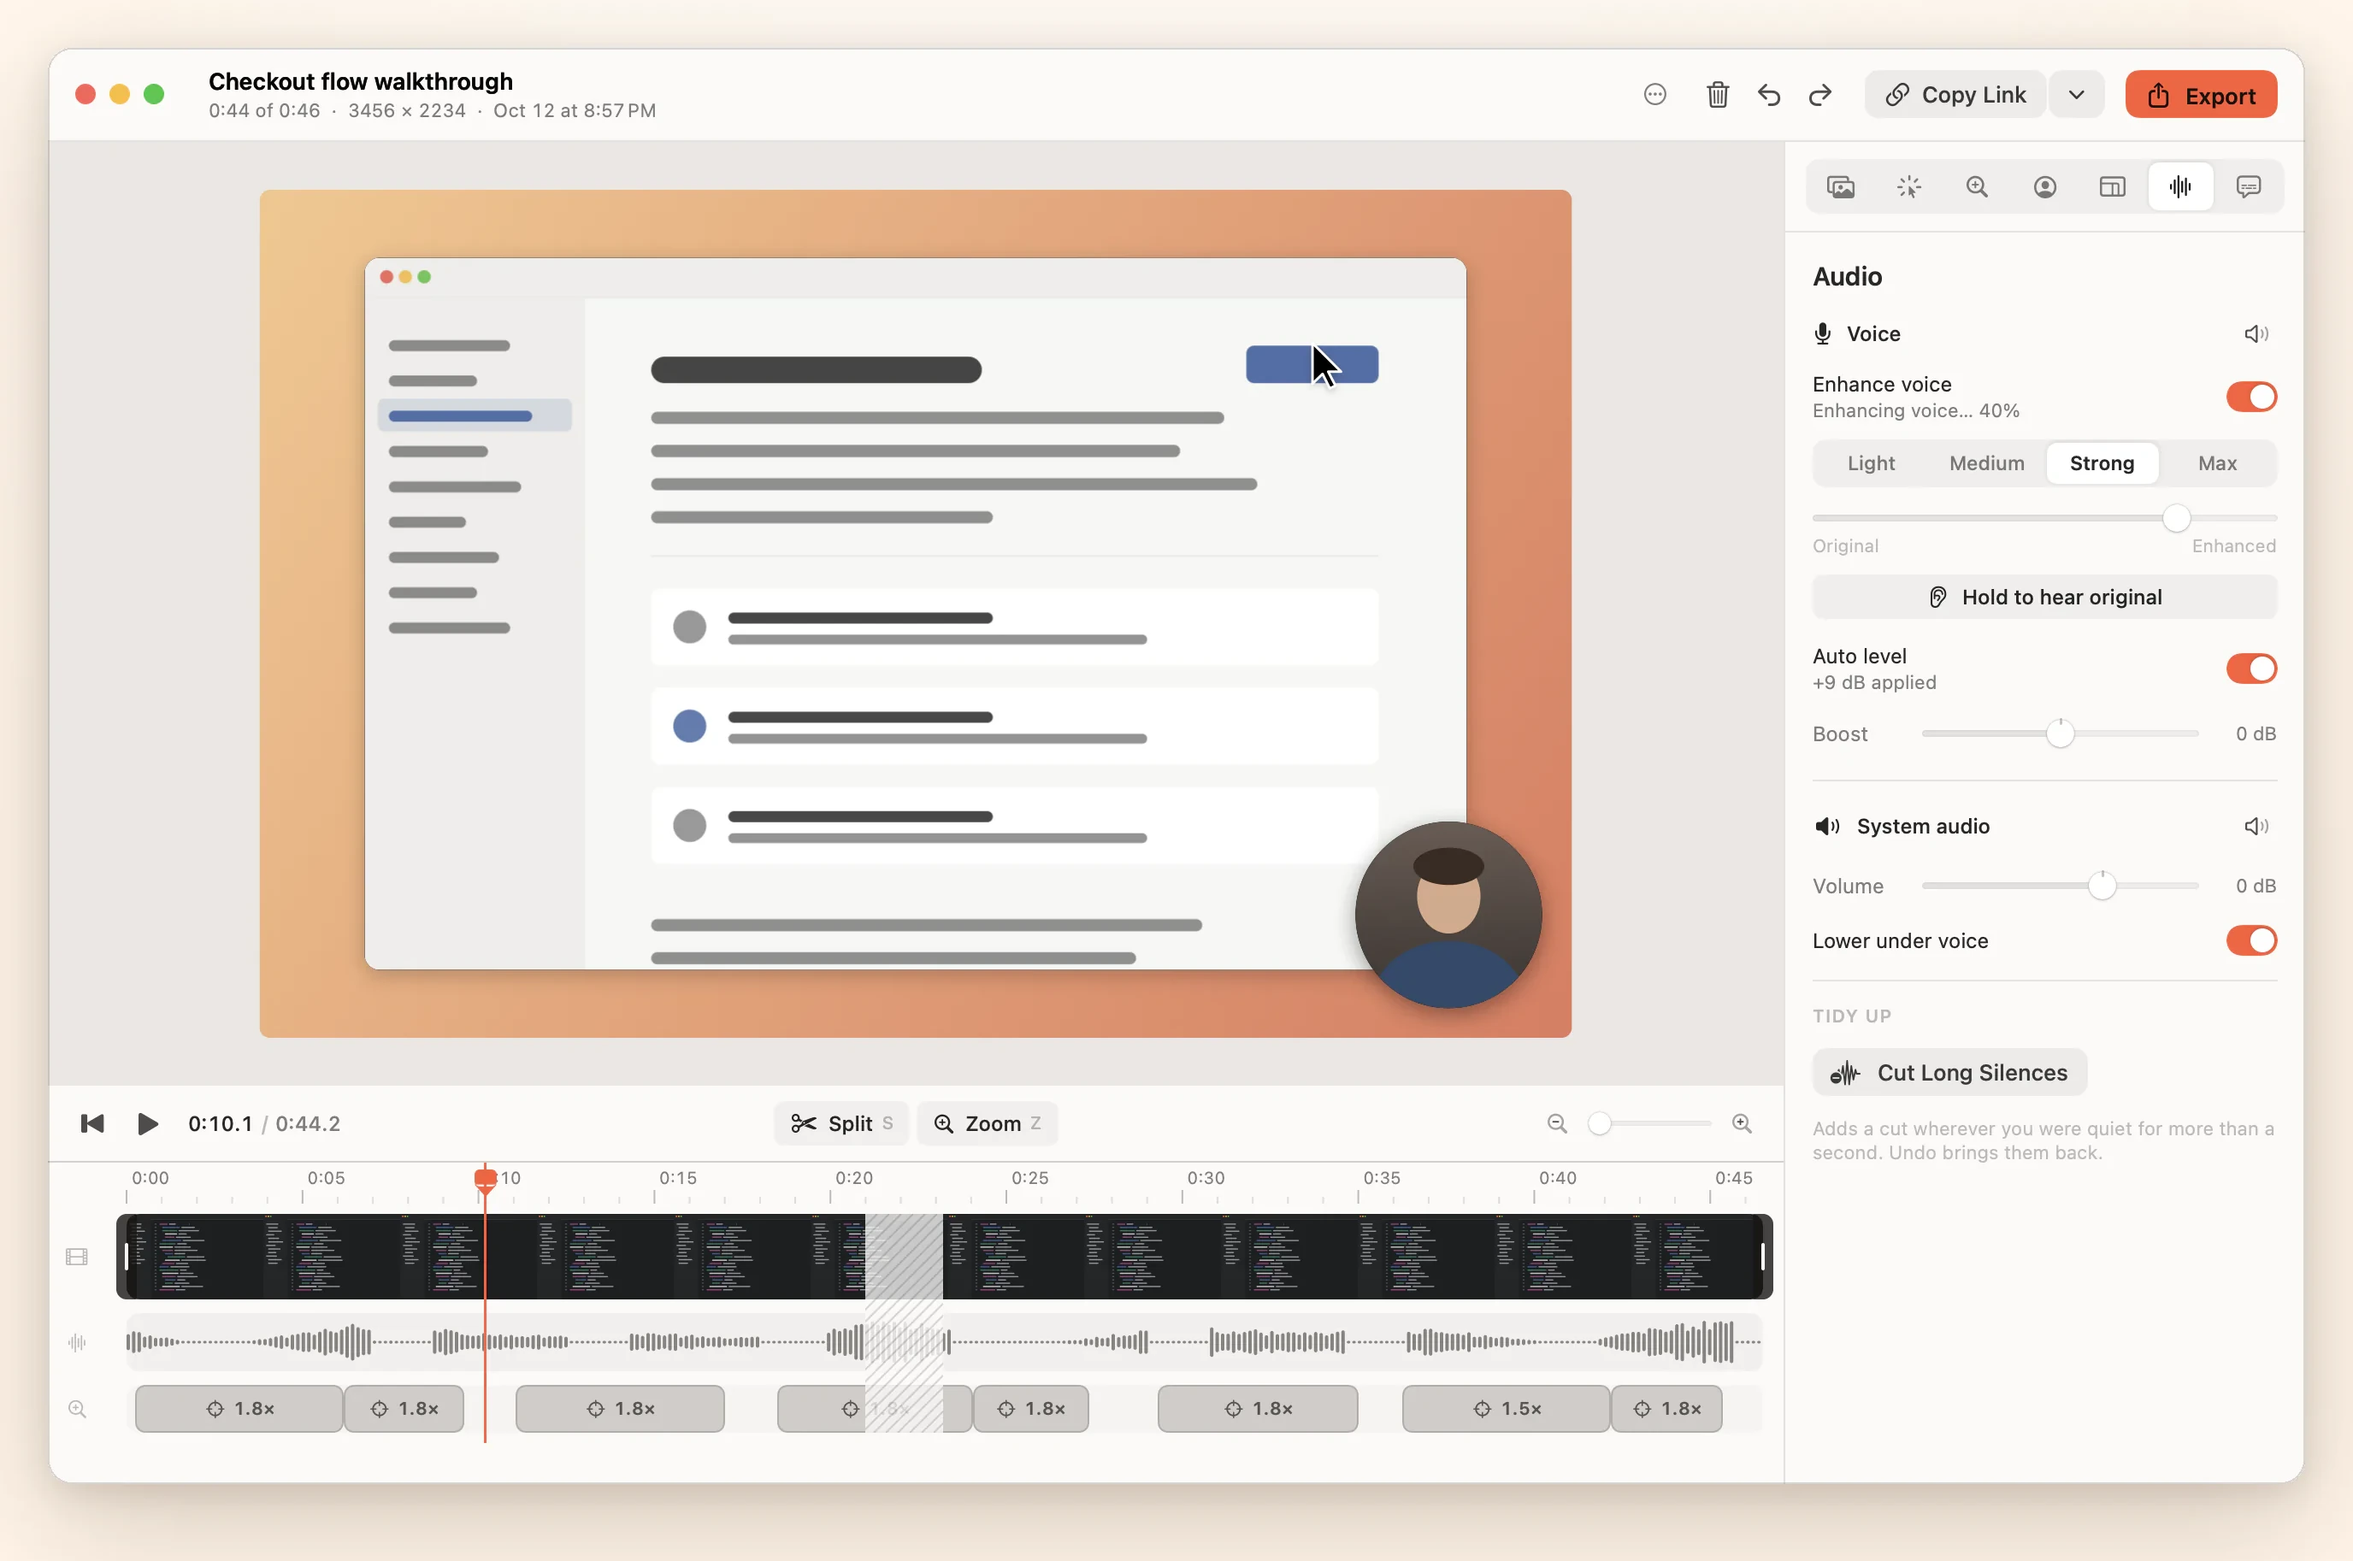
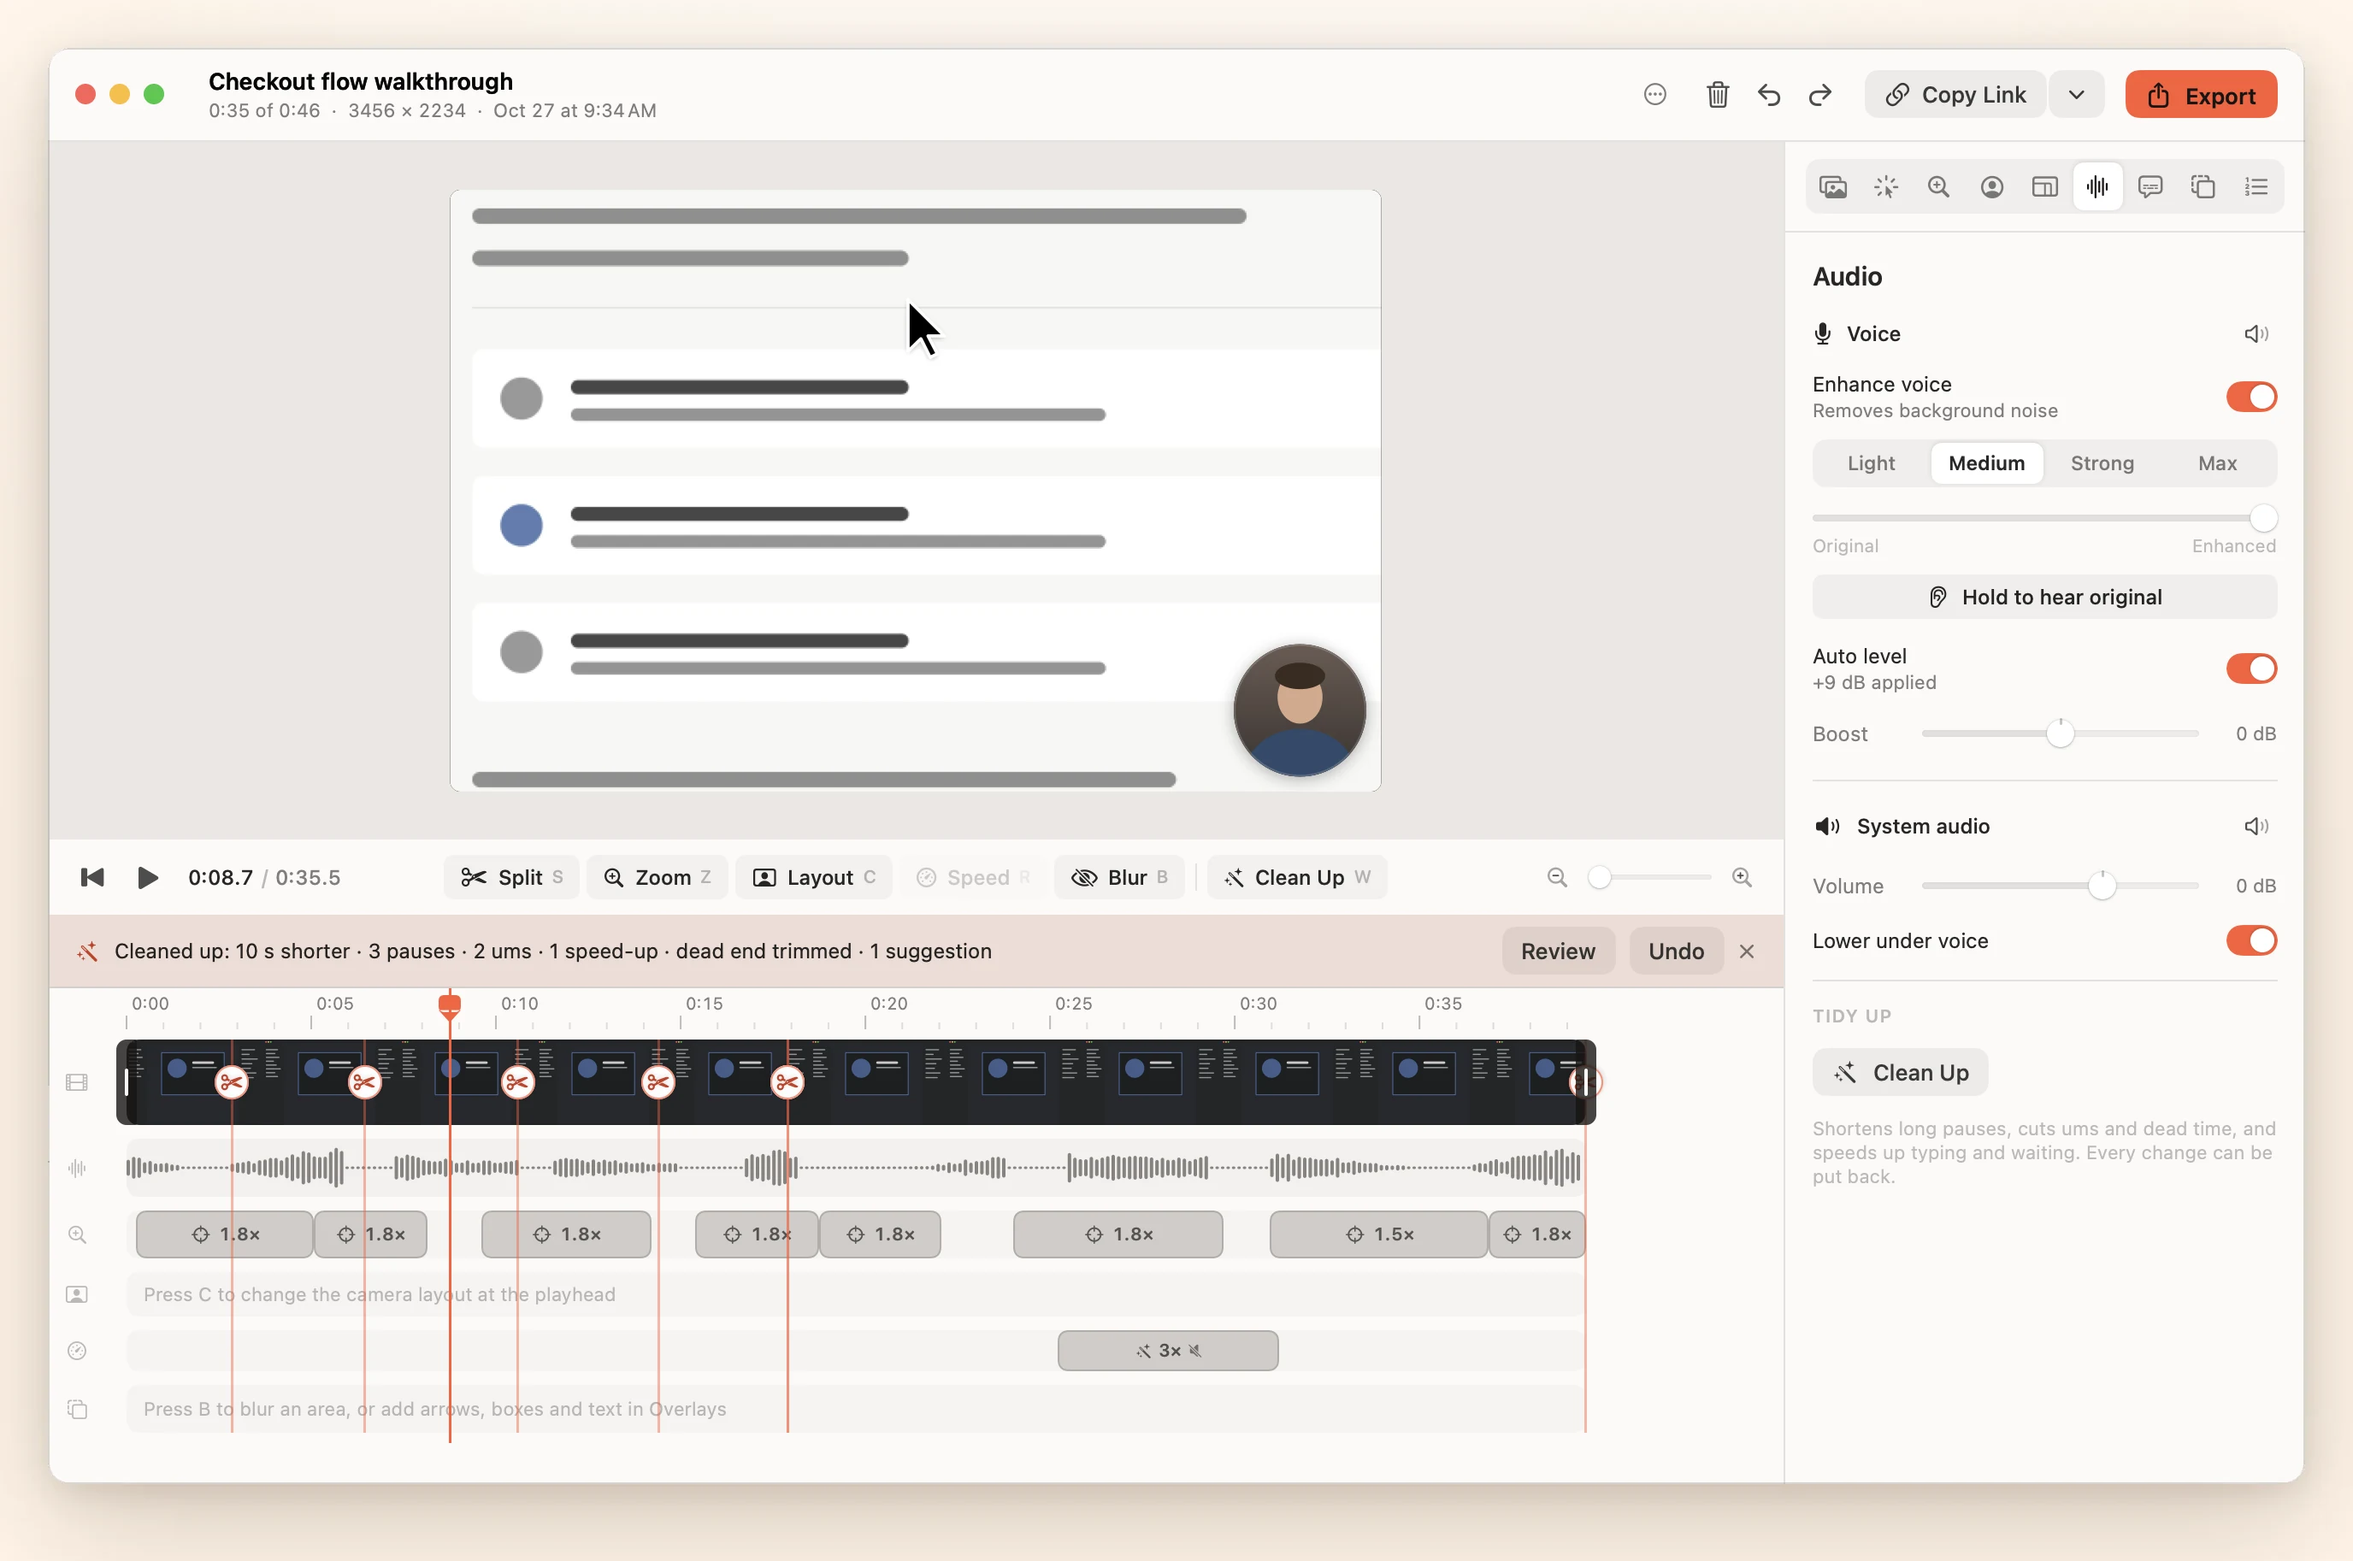
Site: 0.4 screenshots, a live caption styles demo, Clean Up in the comparison
New Captions and Audio screenshots (Highlight captions with the style grid;
Clean Up with its results bar), a six-tile caption styles demo on the Audio and
captions page, and Reelbird's comparison row. The mock preview now sketches the
caption styles, and two snapshot scenes exist for the site shots.

diff --git a/Sources/ReelbirdApp/Services/Mocks/MockPreviewPlayer.swift b/Sources/ReelbirdApp/Services/Mocks/MockPreviewPlayer.swift
@@ -1,5 +1,6 @@
 import AppKit
 import QuartzCore
+import ReelbirdAI
 import ReelbirdCore
 
 /// Stand-in for `ReelbirdRender.PreviewPlayer`: draws the edit with Core Graphics (background,
@@ -356,10 +357,55 @@ final class MockPreviewView: NSView {
         drawPill(ctx, text: text, in: frame, y: frame.maxY - min(frame.width, frame.height) * 0.12, size: 0.032)
     }
 
+    /// A sketch of the caption styles (the real ones are drawn by the compositor): the spoken word in the accent
+    /// colour, on a box for Marker, words so far for Pop, one big word for One Word and Slam.
     private func drawCaption(_ ctx: CGContext, _ frame: CGRect) {
-        guard edit.captions.file != nil,
+        let c = edit.captions
+        guard c.file != nil, c.style != .none,
               let seg = MockData.transcript.segments.first(where: { $0.range.contains(sourceTime) }) else { return }
-        drawPill(ctx, text: seg.text, in: frame, y: frame.maxY - min(frame.width, frame.height) * 0.07, size: 0.034)
+        let words = seg.timedWords
+        let active = words.lastIndex { $0.range.start <= sourceTime }
+        func color(_ v: RGBA) -> NSColor { NSColor(srgbRed: v.r, green: v.g, blue: v.b, alpha: v.a) }
+        let big = c.style.isWordAtATime
+        let short = min(frame.width, frame.height)
+        let fontSize = short * (big ? 0.075 : 0.034) * c.size.scale
+        let font = NSFont.systemFont(ofSize: fontSize, weight: big ? .heavy : .semibold)
+        let str = NSMutableAttributedString()
+        func add(_ t: String, _ fg: NSColor, bg: NSColor? = nil) {
+            var a: [NSAttributedString.Key: Any] = [.font: font, .foregroundColor: fg]
+            if let bg { a[.backgroundColor] = bg }
+            str.append(NSAttributedString(string: t, attributes: a))
+        }
+        let text = color(c.palette.text), accent = color(c.palette.accent)
+        switch c.style {
+        case .classic:
+            add(seg.text, text)
+        case .oneWord, .slam:
+            guard let i = active else { return }
+            let w = words[i].text.trimmingCharacters(in: CharacterSet(charactersIn: ",.;:"))
+            add(c.uppercase ? w.uppercased() : w, c.style == .slam ? accent : text)
+        default:
+            for (i, w) in words.enumerated() {
+                if c.style == .pop, let a = active, i > a { break }
+                if i > 0 { add(" ", text) }
+                if i == active, c.style == .highlight { add(w.text, accent) }
+                else if i == active, c.style == .marker { add(w.text, color(c.palette.onAccent), bg: accent) }
+                else { add(w.text, active.map { i > $0 } == true ? text.withAlphaComponent(0.72) : text) }
+            }
+        }
+        let sz = str.size()
+        let y = big ? frame.maxY - short * 0.22 : frame.maxY - short * 0.07
+        let box = CGRect(x: frame.midX - sz.width / 2 - fontSize * 0.6, y: y - sz.height / 2 - fontSize * 0.3,
+                         width: sz.width + fontSize * 1.2, height: sz.height + fontSize * 0.6)
+        if let back = c.palette.backing {
+            ctx.addPath(CGPath(roundedRect: box, cornerWidth: fontSize * 0.4, cornerHeight: fontSize * 0.4, transform: nil))
+            ctx.setFillColor(color(back).cgColor)
+            ctx.fillPath()
+        }
+        NSGraphicsContext.saveGraphicsState()
+        NSGraphicsContext.current = NSGraphicsContext(cgContext: ctx, flipped: true)
+        str.draw(at: CGPoint(x: box.minX + fontSize * 0.6, y: box.minY + fontSize * 0.3))
+        NSGraphicsContext.restoreGraphicsState()
     }
 
     private func drawPill(_ ctx: CGContext, text: String, in frame: CGRect, y: CGFloat, size: CGFloat) {

diff --git a/Sources/ReelbirdApp/Debug/Snapshots.swift b/Sources/ReelbirdApp/Debug/Snapshots.swift
@@ -351,9 +351,21 @@ import SwiftUI
         })
         // Clean Up: the results bar under the tool bar, and the Review list.
         func cleanedUp(_ m: EditorModel) {
-            let words = MockData.transcript.allWords.map { CleanUpInputs.Word(range: $0.range, text: $0.text) }
-            let report = CleanUp.plan(CleanUpInputs(duration: m.manifest.duration, words: words, events: m.events), edit: m.edit)
-            m.change("Clean Up") { CleanUp.apply(report, to: &$0) }
+            // A typical take's findings (the mock has no real audio to analyse).
+            func r(_ a: Double, _ b: Double) -> TimeRange { TimeRange(start: a, end: b) }
+            let applied = [
+                CleanUpItem(kind: .pause, range: r(2.6, 4.2), cut: r(2.85, 3.95), reason: "pause 1.6 s → 0.5 s", confidence: 0.95),
+                CleanUpItem(kind: .filler, range: r(7.55, 7.9), cut: r(7.55, 7.9), reason: "um", confidence: 0.9),
+                CleanUpItem(kind: .pause, range: r(11.8, 13.9), cut: r(12.05, 13.4), reason: "pause 2.1 s → 0.55 s", confidence: 0.95),
+                CleanUpItem(kind: .filler, range: r(17.2, 17.5), cut: r(17.2, 17.5), reason: "uh", confidence: 0.85),
+                CleanUpItem(kind: .pause, range: r(21.4, 22.9), cut: r(21.65, 22.5), reason: "pause 1.5 s → 0.45 s", confidence: 0.95),
+                CleanUpItem(kind: .speedUp, range: r(30.5, 36.5), rate: 3, reason: "typing, nothing said: 3×", confidence: 0.9),
+                CleanUpItem(kind: .deadEnd, range: r(44.2, 46.5), cut: r(44.8, 46.5), reason: "dead end 2.3 s after you finish", confidence: 0.95),
+            ]
+            let suggestions = [CleanUpItem(kind: .retake, range: r(24.1, 26.0), cut: r(24.1, 26.0),
+                                           reason: "retake: you said \u{201C}here's the confirmation screen\u{201D} twice; keeps the later take",
+                                           confidence: 0.6)]
+            m.change("Clean Up") { CleanUp.apply(CleanUpReport(applied: applied, suggestions: suggestions), to: &$0) }
             m.showCleanUpBar = true
         }
         scenes.append(editor(.audio, variant: "cleanup") { m in cleanedUp(m) })
@@ -362,6 +374,12 @@ import SwiftUI
             m.autosaveEnabled = false
             cleanedUp(m)
             return AnyView(CleanUpReview(model: m).background(RoundedRectangle(cornerRadius: 12).fill(Theme.raised)))
+        })
+        // For the website: Highlight captions on the preview, the style grid and transcript in the panel.
+        scenes.append(editor(.captions, variant: "site") { m in
+            m.change("x") { $0.captions.file = "captions.vtt"; $0.captions.locale = "en-US"; $0.captions.style = .highlight }
+            m.setTranscriptForSnapshot(MockData.transcript)
+            m.setPlayheadForSnapshot(10.6)
         })
         scenes.append(editor(.captions, variant: "generate") { m in m.captionLanguage = "en-US" })
         scenes.append(editor(.captions, variant: "working") { m in m.captionState = .working; m.captionProgress = 0.42 })

diff --git a/site/src/data/compare.ts b/site/src/data/compare.ts
@@ -39,8 +39,8 @@ export const PRODUCTS: Product[] = [
     links: "Copied the moment you stop. Hosted in your own S3 or R2 bucket for free, or by Reelbird Pro. The same link updates after editing",
     autoZoom: "Yes, from clicks and typing. Every zoom editable",
     download: "Always. Every take is MP4 files on your Mac",
-    notes: "Native Swift. Free notarised download or build from source. No account needed, no telemetry in the app. Viewer analytics with Pro. CLI and MCP server",
-    bestFor: "Mac users who want a link the moment they stop, auto-zoom polish later under the same link, and their files on their own Mac, for free.",
+    notes: "Native Swift. Free notarised download or build from source. On-device captions in six styles and one-click Clean Up (shorter pauses, no ums or dead time). No account needed, no telemetry in the app. Viewer analytics with Pro. CLI and MCP server",
+    bestFor: "Mac users who want a link the moment they stop, auto-zoom, captions and a one-click tidy-up later under the same link, and their files on their own Mac, for free.",
     keepInMind: "Mac only. Free links need a bucket you own; Reelbird Pro ($5 a month) hosts them instead. No comments.",
     sources: [{ label: "github.com/btahir/reelbird", href: "https://github.com/btahir/reelbird" }],
   },
